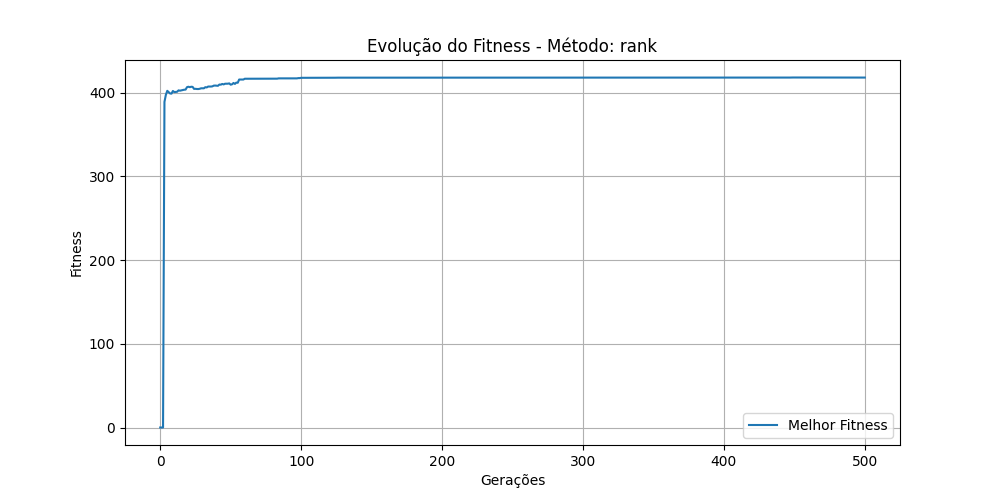
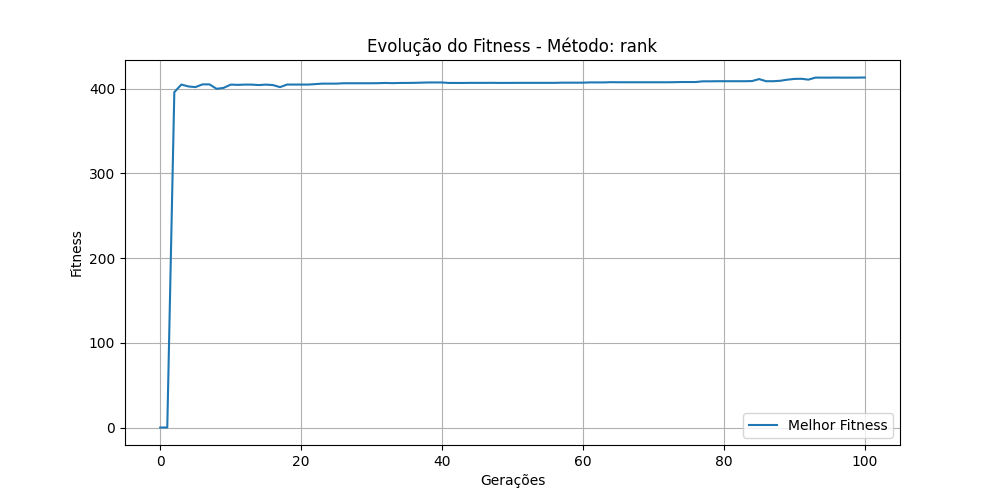
feat: add corrections

diff --git a/ui/visualizer.py b/ui/visualizer.py
@@ -17,9 +17,10 @@ class OfficeLayoutVisualizer:
         self.fixed_elements = [elem for elem in self.planta['elementos'] if elem.get('fixo', False)]
         self.movable_tables = [elem for elem in self.planta['elementos'] if elem['tipo'] == 'mesa']
 
-        self.max_generations = 1000  # Critério 1: Número máximo de gerações
-        self.target_fitness = 500    # Critério 2: Fitness desejado
-        self.stagnation_limit = 500  # Critério 3: Gerações
+        self.max_generations = 300  # Critério 1: Número máximo de gerações
+        self.target_fitness = 450    # Critério 2: Fitness desejado
+        self.stagnation_limit = 100  # Critério 3: Gerações
+        self.selection_method = "tournament"
         
         # Parâmetros de visualização
         self.scale = DEFAULT_SCALE  # Escala para visualização (pixels por unidade)
@@ -30,7 +31,7 @@ class OfficeLayoutVisualizer:
         self.colors = COLORS
         
         # Parâmetros do algoritmo genético
-        self.population_size = 30
+        self.population_size = 40
         self.mutation_rate = 0.1
         self.spacing = 2
 
@@ -59,7 +60,11 @@ class OfficeLayoutVisualizer:
             spacing=self.spacing,
             mutation_rate=self.mutation_rate,
             layout=self.layout,
-            selection_method="roulette"
+            selection_method=self.selection_method,
+            population_size=self.population_size,
+            max_generations=self.max_generations,
+            target_fitness=self.target_fitness,
+            stagnation_limit=self.stagnation_limit
         )
         
         # Estado da simulação

diff --git a/core/genetics.py b/core/genetics.py
@@ -3,7 +3,7 @@ import matplotlib.pyplot as plt
 import os
 class GeneticAlgorithm:
     def __init__(self, planta, movable_tables, restricted_areas, spacing, mutation_rate,
-                 layout, population_size=30, max_generations=1000, target_fitness=500, stagnation_limit=500,
+                 layout, population_size=30, max_generations=500, target_fitness=500, stagnation_limit=100,
                  selection_method="rank"):
         self.planta = planta
         self.movable_tables = movable_tables
